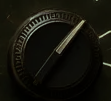
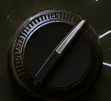
feat(ritm12): light the machine as brightly with the desk lamp out as the owner's mock does

diff --git a/packages/machine-ritm12/src/styles.css b/packages/machine-ritm12/src/styles.css
@@ -288,7 +288,7 @@
 
 .rt-frame[data-lamp='out'] .rt-knob img,
 .rt-frame[data-lamp='out'] .rt-labels {
-  filter: brightness(0.82) saturate(0.85);
+  filter: brightness(0.92) saturate(0.7);
 }
 
 @media (prefers-reduced-motion: reduce) {

diff --git a/packages/machine-ritm12/art/cut-night.py b/packages/machine-ritm12/art/cut-night.py
@@ -23,7 +23,7 @@ night = here / 'night'
 (night / 'patch').mkdir(parents=True, exist_ok=True)
 
 # The machine keeps most of its own colour; the room behind it goes to the blue of a dark room.
-MACHINE = {'light': np.array([0.74, 0.86, 0.84]), 'colour_kept': 0.85, 'depth': 1.32}
+MACHINE = {'light': np.array([0.80, 0.97, 1.28]), 'colour_kept': 1.0, 'depth': 1.15}
 ROOM = {'light': np.array([0.55, 0.78, 1.15]), 'colour_kept': 0.3, 'depth': 0.9}
 # The machine's case on the plate. Every patch lies well inside it.
 CASE = (70, 150, 1950, 1235)
